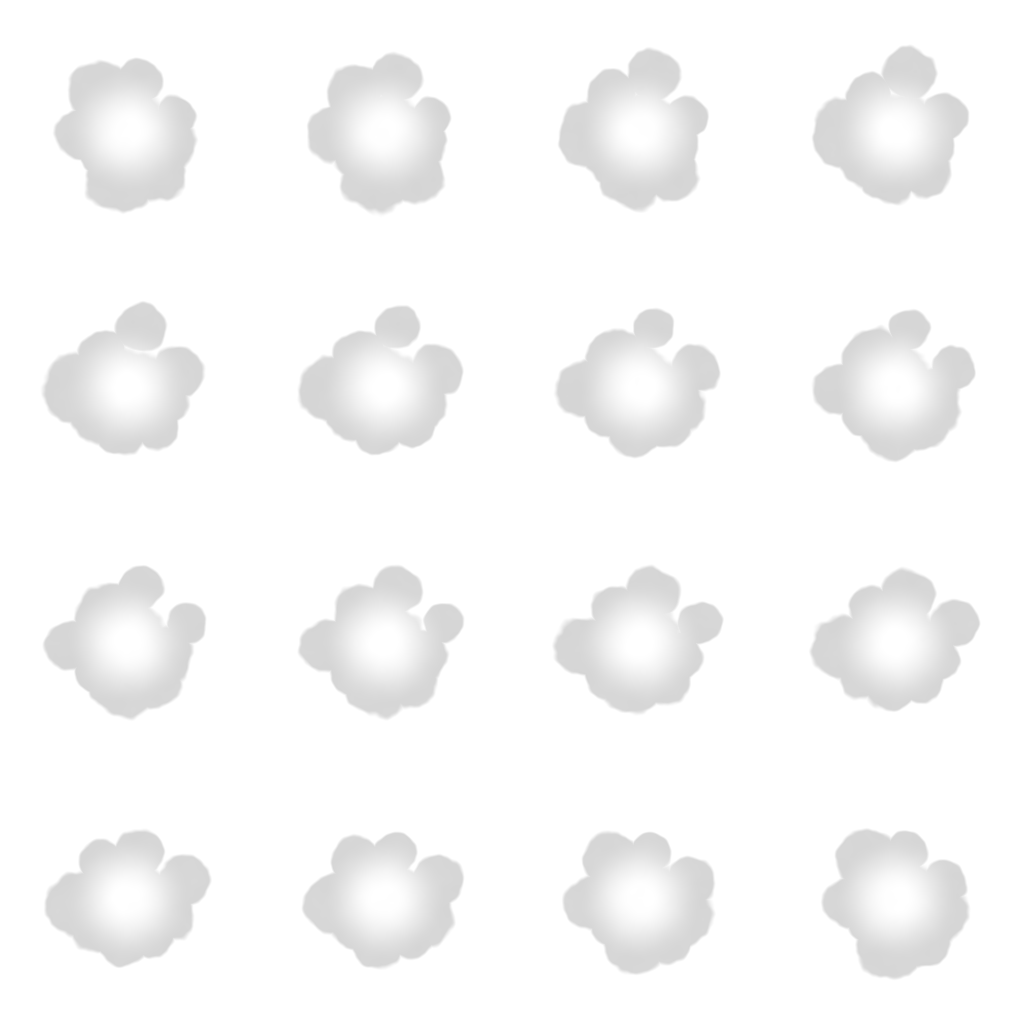
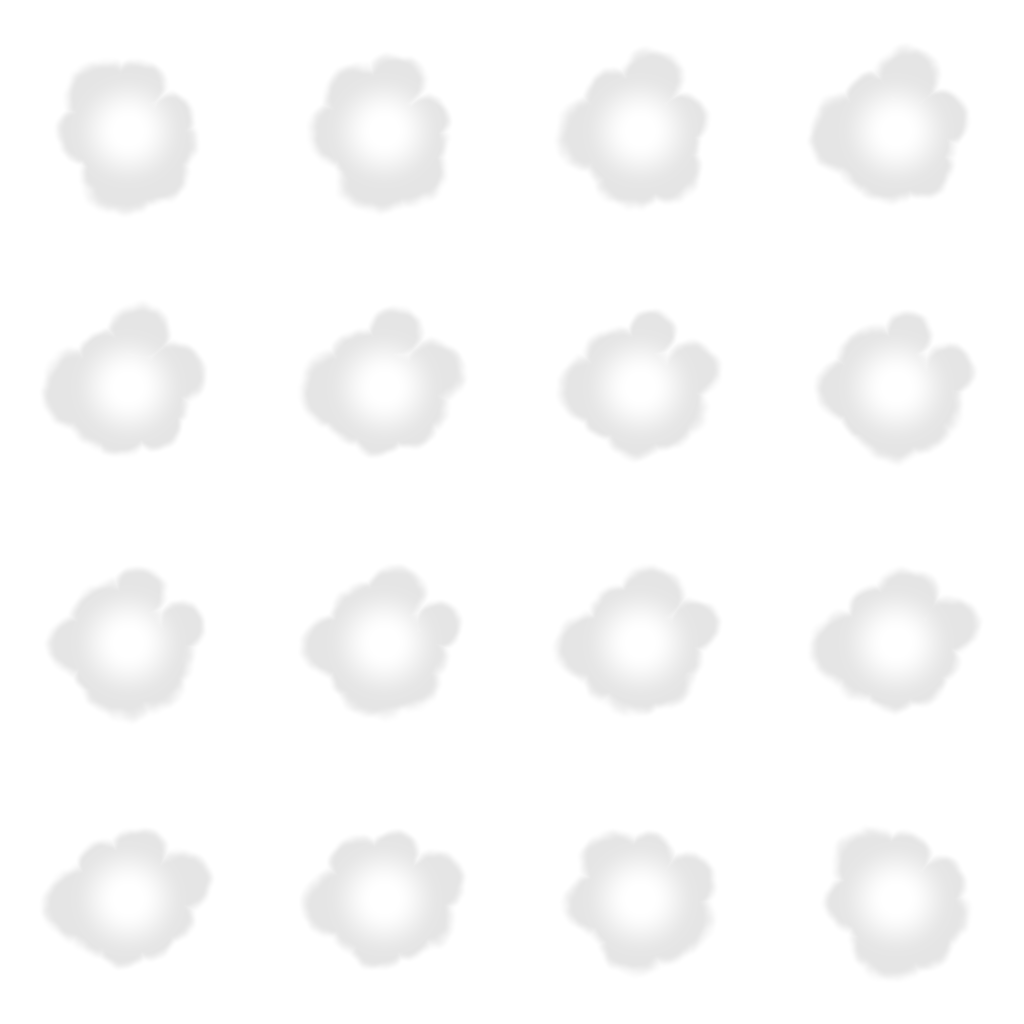
Bags round 4: real flames, soft wisps, bloom in the preview renderer
HoodVFX: two-layer lava fire (orange-red bodies, pale-yellow cores,
flame licks, an orange light under the bag, a red-ended fallback), and
fields of soft straight wisps for toxic and shadow (the curly tendril
sprite is gone). stamp.png is regenerated with chunky embossed grooves,
firepuff has no inner outlines, streakup is softer.

The preview renderer adds Roblox-like bloom from an HDR pass (screen
blend, `bloom: false` to disable), hides labels past their MaxDistance,
and knows the treadmills' wispline flipbook.

Claude-Session: https://claude.ai/code/session_0133PGp4TdDsjCTk6ZCsuLi8

diff --git a/hood/art/vfx/make_theme_textures.js b/hood/art/vfx/make_theme_textures.js
@@ -1,12 +1,12 @@
-// Hood station-theme textures: rain streaks, embers, bubbles, snowflakes and rising tendrils for the themed
-// punching-bag stations (HoodVFX.theme). Pure Node, same toolkit as make_aura_textures.js.
+// Hood station-theme textures: rain streaks, embers, bubbles, snowflakes, comets, fire puffs, straight wisps and
+// the embossed X stamp for the themed punching-bag stations (HoodVFX.theme, d2_stations). Pure Node, same toolkit
+// as make_aura_textures.js.
 // Run:  node make_theme_textures.js [outDir]     (default: next to this file)
 // White/grey on transparent (tinted in game by ParticleEmitter.Color); alpha fades to 0 at every border.
 //   rain     256  single               a thin (~6 px) vertical line, bright in the middle (VelocityParallel)
 //   ember    128  single               hot pin-point with a soft halo
 //   bubble   256  single               soap/ooze bubble: thin rim, faint fill, a highlight and a crescent
 //   snow     256  single               six-armed snowflake with side branches and a faint halo
-//   tendril 1024  2x2 static variants  a wavy strand of smoke rising, thick at the root, fraying at the tip
 //   comet    256  single (Beam)        a bright head at U ~0.14 with a tail fading toward U = 1 (sweeping arcs)
 //   stamp    128  tiling Texture       the reference's embossed X: both diagonals as a dark groove with a light
 //                                      edge below-right (the PNG carries both; Texture.Color3 stays white)
@@ -175,35 +175,6 @@ function snow() {
   }
   return im;
 }
-// ---------------------------------------------------------------- tendril: rising smoke strand (2x2)
-function tendril(fr, seed) {
-  const N = fr.w, r = rng(seed * 31 + 5), n1 = perlin(seed + 11);
-  const ph = r() * 6.28, ph2 = r() * 6.28, amp = 0.05 + r() * 0.05, freq = 1.1 + r() * 0.6;
-  // Two strands: the main one and a thinner one peeling off part way up.
-  const strands = [
-    { x0: 0.5, w: 0.075, y0: 0, amp, freq, ph },
-    { x0: 0.5 + (r() < 0.5 ? -1 : 1) * 0.04, w: 0.035, y0: 0.3 + r() * 0.2, amp: amp * 1.6, freq: freq * 1.4, ph: ph2 },
-  ];
-  for (let y = 0; y < N; y++) for (let x = 0; x < N; x++) {
-    const u = x / N, h = 1 - y / N; // h = 0 at the root (bottom), 1 at the tip
-    let a = 0, edge = 0;
-    for (const s of strands) {
-      if (h < s.y0) continue;
-      const t = (h - s.y0) / (1 - s.y0);
-      const cx = s.x0 + s.amp * Math.sin(6.28 * (s.freq * h) + s.ph) * (0.3 + t) + (fbm(n1, h * 3, s.ph, 3) - 0.5) * 0.08 * t;
-      const w = s.w * Math.pow(1 - t, 0.6) + 0.008;
-      const d = (u - cx) / w;
-      const core = Math.exp(-d * d * 1.5);
-      const fade = smooth(0, 0.12, t) * (1 - smooth(0.6, 0.98, t));
-      a = Math.max(a, core * fade);
-      edge = Math.max(edge, Math.exp(-((Math.abs(d) - 0.8) ** 2) * 6) * fade);
-    }
-    const erode = 0.65 + 0.35 * fbm(n1, u * 6, h * 9, 4);
-    fr.a[y * N + x] = clamp(a * erode * 1.1);
-    fr.l[y * N + x] = 0.78 + 0.22 * clamp(edge);
-  }
-}
-
 // ---------------------------------------------------------------- comet: head + tail along U (Beam texture)
 function comet() {
   const N = 256, im = img(N);
@@ -218,8 +189,9 @@ function comet() {
   return im;
 }
 // ---------------------------------------------------------------- stamp: embossed X (tiling, no border)
-// Both diagonals cut as a 5 px groove (black, alpha 0.45) with a 2 px highlight 2 px below-right of it (white,
-// alpha 0.30), so one PNG darkens and lights any base colour (gold stays lemon, not olive).
+// Both diagonals cut as a 12 px groove (black, alpha 0.35) with a 4 px highlight 4 px below-right of it
+// (white, alpha 0.35): chunky enough to read from the player's camera, and one PNG darkens and lights any base
+// colour (gold stays lemon, not olive).
 function stamp() {
   const N = 128, rgba = Buffer.alloc(N * N * 4);
   const diag = (x, y) => { const u = x / N, v = y / N; return Math.min(Math.abs(u - v), Math.abs(u + v - 1)) / Math.SQRT2 * N; }; // px to the X
@@ -227,10 +199,10 @@ function stamp() {
     let groove = 0, hi = 0;
     for (let sy = 0; sy < 3; sy++) for (let sx = 0; sx < 3; sx++) { // 3x3 supersampling for clean edges
       const px = x + (sx + 0.5) / 3, py = y + (sy + 0.5) / 3;
-      if (diag(px, py) <= 2.5) groove += 1 / 9;
-      else if (diag(px - 2, py - 2) <= 1) hi += 1 / 9;
+      if (diag(px, py) <= 6) groove += 1 / 9;
+      else if (diag(px - 4, py - 4) <= 2) hi += 1 / 9;
     }
-    const aG = 0.45 * groove, aH = 0.30 * hi, a = aG + aH * (1 - aG);
+    const aG = 0.35 * groove, aH = 0.35 * hi, a = aG + aH * (1 - aG);
     const c = a > 0 ? Math.round(255 * (aH * (1 - aG)) / a) : 255;
     rgba[(y * N + x) * 4] = rgba[(y * N + x) * 4 + 1] = rgba[(y * N + x) * 4 + 2] = c;
     rgba[(y * N + x) * 4 + 3] = Math.round(a * 255);
@@ -241,25 +213,26 @@ function stamp() {
 // ---------------------------------------------------------------- firepuff: round cartoon fire (4x4 Loop)
 function firepuff(fr, f) {
   const N = fr.w, n1 = perlin(77), r = rng(91);
-  // A ring of round lobes round a core (cauliflower outline), a couple bulging up more than down.
+  // A soft lumpy blob: round lobes round a core make the outline, but the alpha is a smooth falloff over the
+  // outer 35% (no hard rim, no drawn lump outlines), with a hot core.
   const lobes = [];
   for (let i = 0; i < 8; i++) {
     const a = i / 8 * 6.283 + r() * 0.4, up = Math.sin(a) < 0 ? 1.15 : 0.85;
-    lobes.push({ a, d: (0.17 + r() * 0.05) * up, rr: 0.1 + r() * 0.04, ph: r() * 6.283 });
+    lobes.push({ a, d: (0.15 + r() * 0.05) * up, rr: 0.13 + r() * 0.04, ph: r() * 6.283 });
   }
   const t = f / 16 * 6.283; // loop phase
   for (let y = 0; y < N; y++) for (let x = 0; x < N; x++) {
     const u = x / N - 0.5, v = y / N - 0.53;
-    let dens = 1 - Math.hypot(u, v) / 0.2; // core (negative outside, so nothing speckles there)
+    let dens = 1 - Math.hypot(u, v) / 0.24;
     for (const L of lobes) {
       const d = L.d * (1 + 0.12 * Math.sin(t + L.ph)), rr = L.rr * (1 + 0.15 * Math.sin(t * 2 + L.ph));
       dens = Math.max(dens, 1 - Math.hypot(u - Math.cos(L.a) * d, v - Math.sin(L.a) * d) / rr);
     }
-    const warp = (fbm(n1, u * 7 + Math.cos(t) * 0.7, v * 7 + Math.sin(t) * 0.7, 3) - 0.5) * 0.3;
-    const a = smooth(0.0, 0.15, dens + warp);
-    const core = 1 - Math.hypot(u, v + 0.02) / 0.26;
+    const warp = (fbm(n1, u * 6 + Math.cos(t) * 0.7, v * 6 + Math.sin(t) * 0.7, 3) - 0.5) * 0.25;
+    const a = smooth(0.0, 0.35, dens + warp); // 0 at the outline, full 35% of the way in
+    const core = 1 - Math.hypot(u, v + 0.02) / 0.24;
     fr.a[y * N + x] = clamp(a);
-    fr.l[y * N + x] = clamp(0.84 + 0.16 * smooth(0, 0.85, core) + 0.05 * warp); // light edges: the tint, not grey, colours the rim
+    fr.l[y * N + x] = clamp(0.9 + 0.1 * smooth(0, 0.8, core));
   }
 }
 // ---------------------------------------------------------------- streakup: straight tapered wisp
@@ -267,9 +240,9 @@ function streakup() {
   const N = 256, im = img(N), n1 = perlin(5);
   for (let y = 0; y < N; y++) for (let x = 0; x < N; x++) {
     const u = x / N - 0.5, h = 1 - y / N; // h = 0 at the root (bottom), 1 at the tip
-    const w = 0.022 * (1 - 0.5 * h) + 0.006;
+    const w = 0.03 * (1 - 0.3 * h) + 0.012; // ~0.5 stud wide at 7 studs, soft (blurred) edges
     const cx = (fbm(n1, h * 2, 0.5, 2) - 0.5) * 0.02;
-    const across = Math.exp(-(((u - cx) / w) ** 2) * 1.6);
+    const across = Math.exp(-(((u - cx) / w) ** 2) * 1.2);
     const along = smooth(0, 0.3, h) * (1 - smooth(0.55, 0.98, h)); // soft at both ends
     im.a[y * N + x] = clamp(across * along * (0.8 + 0.2 * fbm(n1, u * 20, h * 6, 3)));
   }
@@ -280,7 +253,6 @@ save('rain', rain());
 save('ember', ember());
 save('bubble', bubble());
 save('snow', snow());
-save('tendril', sheet(2, 512, 16, (f, fr) => tendril(fr, f + 1)));
 save('comet', comet());
 save('firepuff', sheet(4, 256, 8, (f, fr) => firepuff(fr, f)));
 save('streakup', streakup());

diff --git a/hood/tools/preview/render/index.html b/hood/tools/preview/render/index.html
@@ -4,6 +4,7 @@
 <script type="importmap">{"imports":{"three":"./node_modules/three/build/three.module.js"}}</script>
 <script type="module">
 import * as THREE from 'three';
+import { UnrealBloomPass } from './node_modules/three/examples/jsm/postprocessing/UnrealBloomPass.js';
 
 const Q = new URLSearchParams(location.search), W = +(Q.get('w') || 1600), H = +(Q.get('h') || 1000);
 const renderer = new THREE.WebGLRenderer({antialias: true, preserveDrawingBuffer: true, alpha: true});
@@ -170,12 +171,15 @@ function addTextures(mesh, p) {
     plane.position.set(...off); plane.rotation.copy(rot); plane.receiveShadow = true; mesh.add(plane);
   }
 }
+const billboards = [];
 function addBillboard(pos, gui) {
   const w = gui.sw, h = gui.sh; if (!(w > 0 && h > 0)) return;
   const ppu = Math.min(80, 1024 / Math.max(w, h));
   const tex = textCanvas(gui.labels, w * ppu, h * ppu);
   const sp = new THREE.Sprite(new THREE.SpriteMaterial({map: tex, depthTest: !gui.top, toneMapped: false}));
   sp.scale.set(w, h, 1); sp.position.set(pos[0] + gui.off[0], pos[1] + gui.off[1], pos[2] + gui.off[2]);
+  // BillboardGui.MaxDistance: hidden past it, measured from the camera to the adornee (checked per shot).
+  if (gui.maxd > 0) billboards.push({ sp, at: new THREE.Vector3(pos[0], pos[1], pos[2]), maxd: gui.maxd });
   scene.add(sp);
 }
 
@@ -188,7 +192,7 @@ const BUILTIN = { sparkles_main: 'sparkle', smoke_main: 'smoke', fire_main: 'fla
 // Preview textures that are flipbook sheets (HoodVFX names): grid size and how frames are picked.
 // random = FlipbookStartRandom with Framerate 0 (a static random frame per particle), oneshot = frames spread
 // over the particle's life, loop = plays at fps from a random start.
-const FLIP = { aura: { g: 2, mode: 'random' }, arc: { g: 2, mode: 'random' }, tendril: { g: 2, mode: 'random' }, firepuff: { g: 4, mode: 'loop', fps: 17 }, wisp: { g: 4, mode: 'oneshot' }, flame: { g: 4, mode: 'loop', fps: 18 } };
+const FLIP = { aura: { g: 2, mode: 'random' }, arc: { g: 2, mode: 'random' }, firepuff: { g: 4, mode: 'loop', fps: 17 }, wisp: { g: 4, mode: 'oneshot' }, wispline: { g: 4, mode: 'oneshot' }, flame: { g: 4, mode: 'loop', fps: 18 } };
 let FX_OPTS = {};
 function fxName(fx) {
   let name = FX_OPTS.builtinOnly ? null : fx.preview;
@@ -217,8 +221,8 @@ function frameTexture(name, g, frame) {
   return texCache[key];
 }
 const FX_NAMES = ['glow', 'sparkle', 'star', 'ring', 'smoke', 'streak', 'shard', 'confetti', 'pow', 'lightning', 'energy', 'flame1',
-  'aura', 'wisp', 'flame', 'arc', 'mist', 'ray', 'shaft', 'glitter', 'swirl', 'dust', 'softglow',
-  'rain', 'ember', 'bubble', 'snow', 'tendril', 'comet', 'stamp', 'firepuff', 'streakup'];
+  'aura', 'wisp', 'wispline', 'flame', 'arc', 'mist', 'ray', 'shaft', 'glitter', 'swirl', 'dust', 'softglow',
+  'rain', 'ember', 'bubble', 'snow', 'comet', 'stamp', 'firepuff', 'streakup'];
 async function preloadFx() {
   await Promise.all(FX_NAMES.map(async n => { if (!texCache[n]) { try { const t = await texLoader.loadAsync(`vfx/${n}.png`); t.colorSpace = THREE.SRGBColorSpace; texCache[n] = t; } catch (e) { console.error('missing vfx/' + n + '.png'); } } }));
 }
@@ -507,6 +511,29 @@ window.loadScene = async (data, opts = {}) => {
   return {parts: data.parts.length, lights: lightsUsed};
 };
 
+// Bloom on top of the finished frame. The frame itself is drawn exactly as without bloom (particles blend in
+// display space, which is what every effect was tuned against). The glow comes from a second, linear HDR render
+// (Neon and bright fire go above 1 there, as in Roblox, so they pass the threshold), bright-passed, blurred and
+// added onto the frame. options.bloom = false skips it.
+let bloom = null;
+function applyBloom(camera) {
+  if (!bloom) {
+    const pass = new UnrealBloomPass(new THREE.Vector2(W, H), 0.35, 0.4, 0.85); // strength, radius, threshold
+    // Halo, not smear: drop the sharpest mip (it adds the hot part back onto itself and washes out text drawn on
+    // neon screens), and lay the glow on with a screen blend so it never clips what is already bright.
+    pass.bloomTintColors[0] = new THREE.Vector3(0, 0, 0);
+    const blend = pass.blendMaterial.clone();
+    blend.blending = THREE.CustomBlending; blend.blendEquation = THREE.AddEquation;
+    blend.blendSrc = THREE.OneMinusDstColorFactor; blend.blendDst = THREE.OneFactor;
+    bloom = { hdr: new THREE.WebGLRenderTarget(W, H, { type: THREE.HalfFloatType }), pass, blend };
+  }
+  const b = bloom, autoClear = renderer.autoClear;
+  renderer.setRenderTarget(b.hdr); renderer.render(scene, camera);
+  b.pass.render(renderer, null, b.hdr, 0, false); // leaves the blurred glow in renderTargetsHorizontal[0]
+  b.blend.uniforms['tDiffuse'].value = b.pass.renderTargetsHorizontal[0].texture;
+  b.pass.fsQuad.material = b.blend;
+  renderer.setRenderTarget(null); renderer.autoClear = false; b.pass.fsQuad.render(renderer); renderer.autoClear = autoClear;
+}
 window.shoot = (cam) => {
   let camera;
   if (cam.ortho) {
@@ -519,7 +546,11 @@ window.shoot = (cam) => {
   camera.updateMatrixWorld();
   buildBeams(camera);
   orientParallel(camera);
+  for (const b of billboards) b.sp.visible = camera.position.distanceTo(b.at) <= b.maxd;
+  // Bloom like Roblox's (Lighting.Bloom): bright neon, fire and glints halo. options.bloom = false turns it off
+  // (and it is off for transparent renders, which need the alpha channel).
   renderer.render(scene, camera);
+  if (FX_OPTS.bloom !== false && !FX_OPTS.transparent) applyBloom(camera);
   const g = window.__grade;
   if (g) {
     // ColorCorrection approximation: saturation, contrast, brightness, then a tint multiply.
